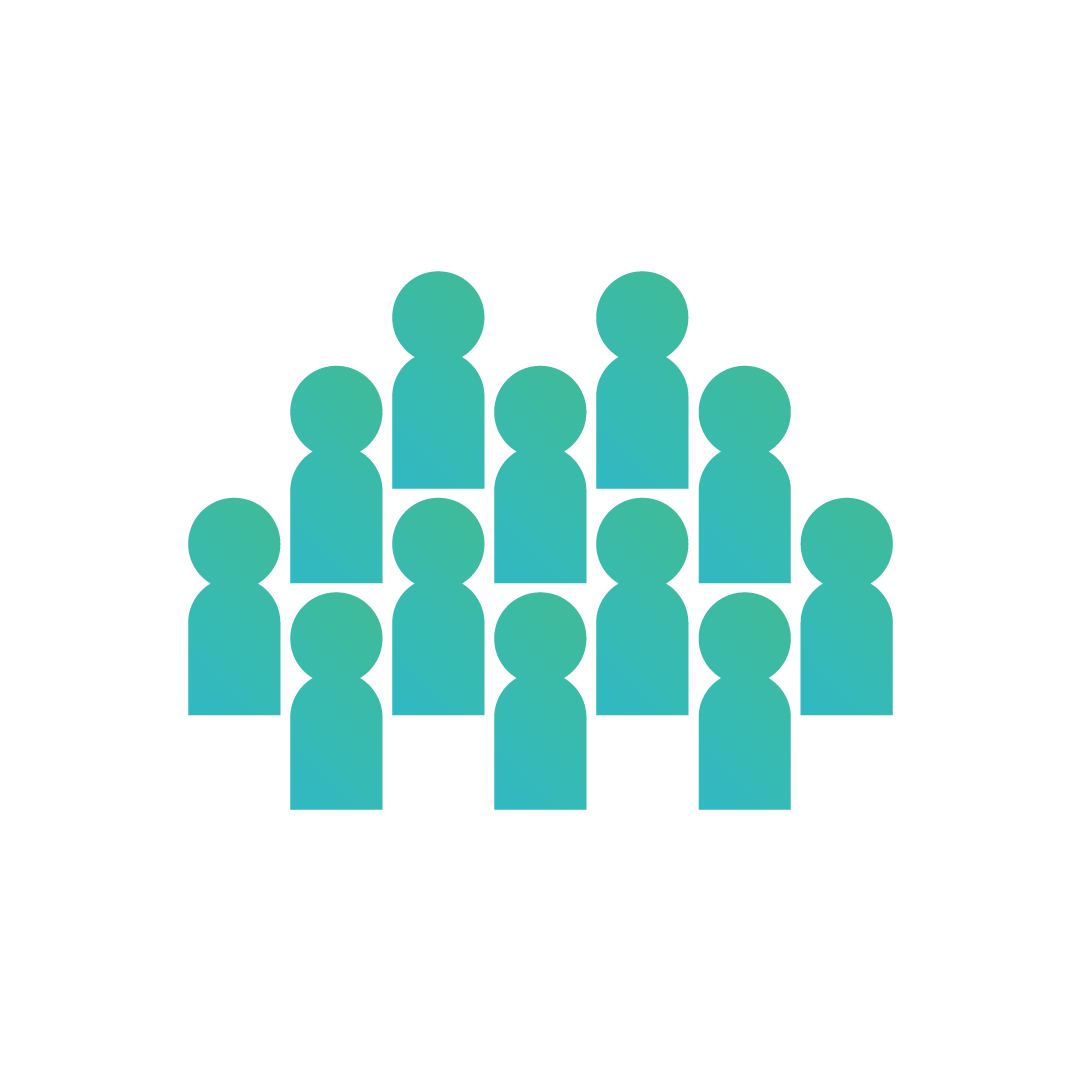
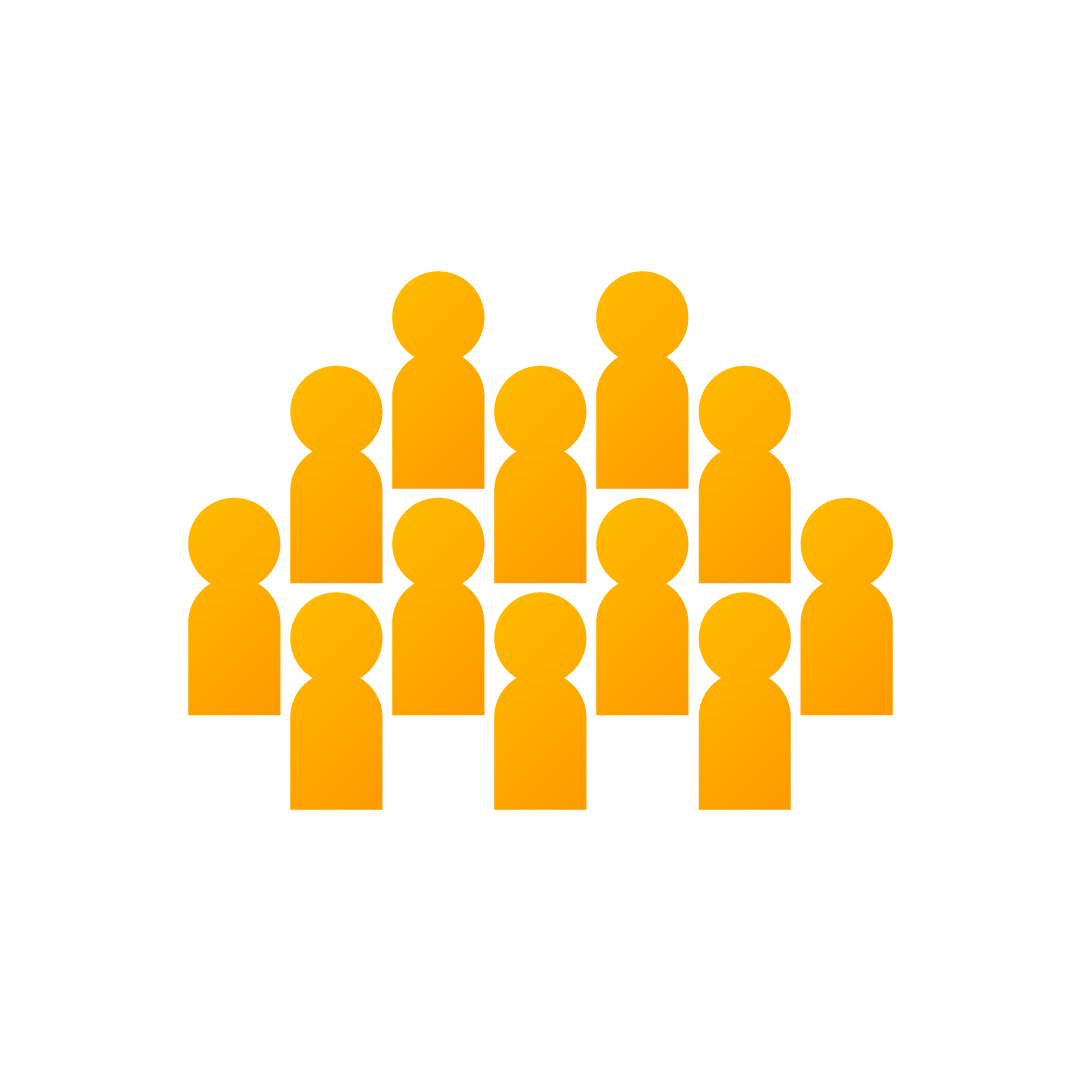
Applied revisions based on preliminary feedback

Changed region(s): [[0.1528, 0.2444, 0.825, 0.7639]]

diff --git a/layouts/index.html b/layouts/index.html
@@ -64,7 +64,7 @@
 		</header>
 		<section>
 			<div class="wrapper flex-between flex-middle">
-				<img src="assets/logos/alternate-gradient-box.svg" id="about-us-img-index" alt="About us" class="featured-image" />
+				<img src="assets/images/what-we-do.png" id="about-us-img-index" alt="About us" class="featured-image" />
 				<div class="content-wrapper">
 					<h3 class="label">Who are we?</h3>
 					<h1 class="heading">About Us</h1>

diff --git a/layouts/partials/about-components/about-org.html b/layouts/partials/about-components/about-org.html
@@ -5,6 +5,6 @@
 			<p>{{ .info.chapter_info }}</p>
 			<p>{{ .info.about_us }}</p>
 		</div>
-		<img src="../assets/logos/alternate-gradient-box.svg" alt="About us" id="about-us-img" class="featured-image right-pos" />
+		<img src="../assets/images/what-we-do.png" alt="About us" id="about-us-img" class="featured-image right-pos" />
 	</div>
 </section>

diff --git a/static/css/main.css b/static/css/main.css
@@ -132,13 +132,13 @@ section.pale, header.pale {
 }
 
 #about-us-img { 
-	width: 100%;
-	margin-left: 10em;
+	width: 50%;
+	margin-left: 3em;
 }
 
 #about-us-img-index { 
-	width: 100%;
-	margin-right: 5em;
+	width: 50%;
+	margin-right: 3em;
 }
 
 .green{
